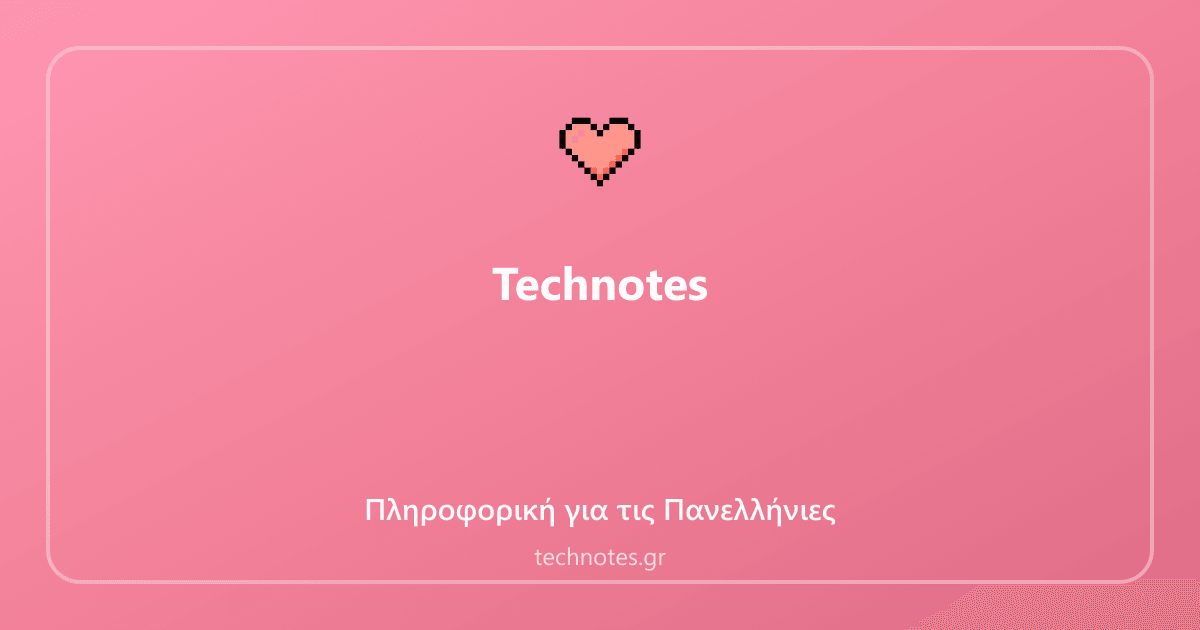
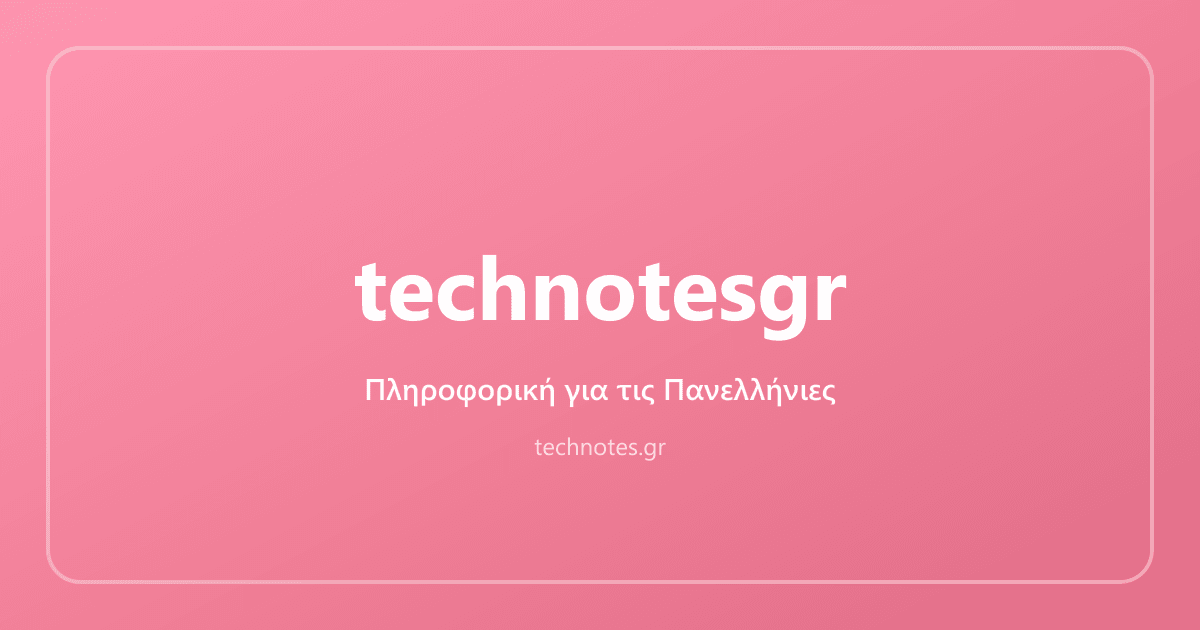
aa

diff --git a/frontend/index.html b/frontend/index.html
@@ -49,6 +49,31 @@
     <meta name="robots" content="index, follow" />
     <link rel="canonical" href="https://www.technotes.gr/" />
 
+    <!-- Open Graph / Messenger / Instagram: crawlers do not run JS -->
+    <meta property="og:site_name" content="technotesgr" />
+    <meta property="og:title" content="technotesgr" />
+    <meta
+      property="og:description"
+      content="Δωρεάν προετοιμασία Πανελληνίων Πληροφορικής: quiz, flashcards, δομές δεδομένων, αλγόριθμοι, παλιά θέματα και ασκήσεις για Γ' Λυκείου."
+    />
+    <meta property="og:url" content="https://www.technotes.gr/" />
+    <meta property="og:type" content="website" />
+    <meta property="og:locale" content="el_GR" />
+    <meta property="og:image" content="https://www.technotes.gr/og/default.png?v=3" />
+    <meta property="og:image:secure_url" content="https://www.technotes.gr/og/default.png?v=3" />
+    <meta property="og:image:type" content="image/png" />
+    <meta property="og:image:width" content="1200" />
+    <meta property="og:image:height" content="630" />
+    <meta property="og:image:alt" content="technotesgr" />
+    <meta name="twitter:card" content="summary_large_image" />
+    <meta name="twitter:title" content="technotesgr" />
+    <meta
+      name="twitter:description"
+      content="Δωρεάν προετοιμασία Πανελληνίων Πληροφορικής: quiz, flashcards, δομές δεδομένων και παλιά θέματα."
+    />
+    <meta name="twitter:image" content="https://www.technotes.gr/og/default.png?v=3" />
+    <meta name="twitter:image:alt" content="technotesgr" />
+
     <!-- LCP: preload mobile hero before JS boots (light theme = PageSpeed default) -->
     <link
       rel="preload"

diff --git a/frontend/src/seo/siteMeta.ts b/frontend/src/seo/siteMeta.ts
@@ -8,8 +8,10 @@ export const SITE_NAME_FULL = 'technotesgr';
 export const SITE_TAGLINE = 'Quiz, flashcards, αλγόριθμοι και παλιά θέματα για Πανελλήνιες Πληροφορικής';
 
 export const DEFAULT_OG_IMAGE_PATH = '/og/default.png';
+/** Bump when default.png changes so Facebook/Instagram recrawl the preview. */
+export const OG_IMAGE_CACHE_VERSION = '3';
 
-export const LOGO_PATH = '/images/logo.png';
+export const LOGO_PATH = '/apple-touch-icon.png';
 export const LOGO_URL = `${DEFAULT_SITE_ORIGIN}${LOGO_PATH}`;
 
 export const DISCORD_INVITE_URL = 'https://discord.gg/b7BEHVFhaZ';
@@ -40,5 +42,7 @@ export function canonicalUrl(pathname: string): string {
 }
 
 export function ogImageUrl(imagePath: string): string {
-  return absoluteUrl(imagePath);
+  const url = absoluteUrl(imagePath);
+  const sep = url.includes('?') ? '&' : '?';
+  return `${url}${sep}v=${OG_IMAGE_CACHE_VERSION}`;
 }

diff --git a/frontend/src/seo/seoConfig.ts b/frontend/src/seo/seoConfig.ts
@@ -28,9 +28,10 @@ export const PAGE_SEO: Record<string, PageSeo> = {
     path: '/',
     slug: 'home',
     title: 'Quiz, Flashcards, Αλγόριθμοι | Πληροφορική Πανελλήνιες',
+    ogTitle: 'technotesgr',
     description:
       'Δωρεάν προετοιμασία Πανελληνίων Πληροφορικής: quiz, flashcards, δομές δεδομένων, αλγόριθμοι, παλιά θέματα, ασκήσεις και οπτικοποιήσεις για Γ\' Λυκείου.',
-    ogImage: og('home'),
+    ogImage: '/og/default.png',
     includeCourseSchema: true,
   },
   '/about': {

diff --git a/frontend/src/seo/SeoHead.tsx b/frontend/src/seo/SeoHead.tsx
@@ -80,6 +80,9 @@ const SeoHead: React.FC = () => {
     upsertMeta('og:description', page.description, 'property');
     upsertMeta('og:image', imageUrl, 'property');
     upsertMeta('og:image:secure_url', imageUrl, 'property');
+    upsertMeta('og:image:type', 'image/png', 'property');
+    upsertMeta('og:image:width', '1200', 'property');
+    upsertMeta('og:image:height', '630', 'property');
     upsertMeta('og:image:alt', imageAlt, 'property');
     upsertMeta('og:url', canonical, 'property');
     upsertMeta('og:type', 'website', 'property');
